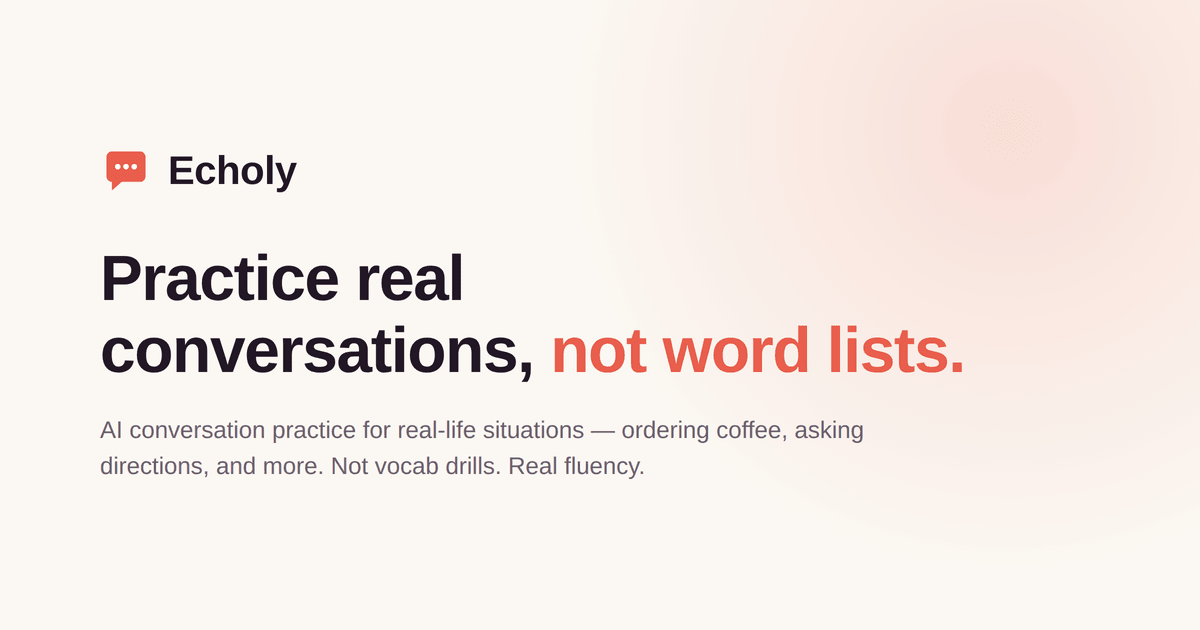
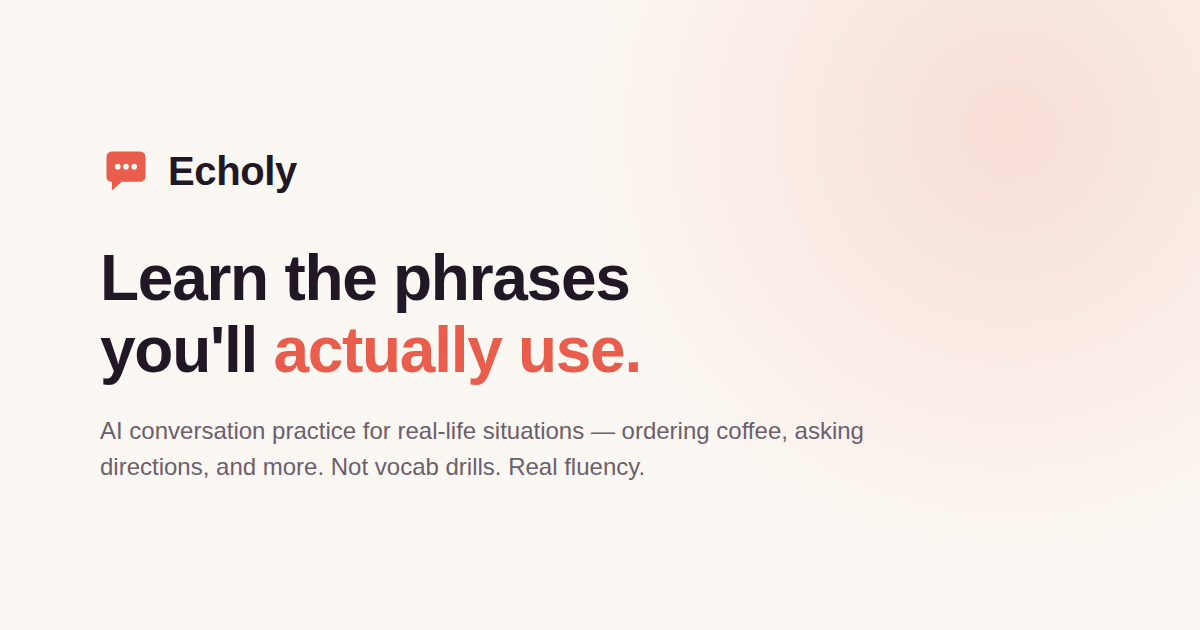
Simplify intro-lesson replies, update slogan

diff --git a/server/server.js b/server/server.js
@@ -929,7 +929,16 @@ const LANGUAGES = [
 // /converse call) turns this from an open-ended chat into something with a
 // goal: the model is asked to grade the learner's progress against them each
 // turn, not just reply in character.
-function buildSystemPrompt(language, scenario, objectives) {
+//
+// `keyPhrases` (also from /lesson-intro, Intro-tier lessons only) is the
+// short list of exact phrases the learner was shown on the lesson's intro
+// screen before this chat started. For Intro lessons it becomes a hard
+// vocabulary boundary for "reply" — see introGuidance below. Without it,
+// the model was free to improvise grammar the learner hasn't seen yet (e.g.
+// a reflexive infinitive construction in what's supposed to be someone's
+// very first exchange), which is exactly the "too intense for an intro
+// lesson" problem this guards against.
+function buildSystemPrompt(language, scenario, objectives, keyPhrases) {
     const hasObjectives = Array.isArray(objectives) && objectives.length > 0;
     const objectivesSection = hasObjectives
         ? `\n\nThis conversation also has a short list of lesson objectives the learner is trying to accomplish:\n${objectives.map((o, i) => `${i}. ${o}`).join("\n")}\nAfter the learner's latest message, and considering the whole conversation so far (not just this one message), decide which of these objectives (by their 0-based index above) have now been reasonably satisfied — be a little generous about it, not a strict grader; near enough counts. Once an objective is satisfied, keep including its index in every later turn too, even if the conversation has moved on. Put the full, cumulative list of satisfied indices in "completedObjectives" (empty array if none yet).`
@@ -941,8 +950,12 @@ function buildSystemPrompt(language, scenario, objectives) {
     // usual "correct them after the fact" coaching, the tutor hands over the
     // exact phrase to try BEFORE expecting a response, every single turn.
     const isIntro = scenario.tier === "Intro";
+    const hasKeyPhrases = isIntro && Array.isArray(keyPhrases) && keyPhrases.length > 0;
+    const keyPhrasesList = hasKeyPhrases
+        ? keyPhrases.map(p => `- ${p.phrase} (${p.translation})`).join("\n")
+        : "";
     const introGuidance = isIntro
-        ? `\n\nThis is a BASICS lesson — assume the learner may not know any ${language} yet. This overrides the usual "tip" rules above: every turn in this lesson, including the very first ("__START__") turn, use "tip" to explicitly hand them the next phrase to try — the exact ${language} phrase plus its English meaning, e.g. "Try saying: ¡Hola! — it means Hello." Never leave "tip" empty in this lesson, not even on a good attempt or the first turn — there should always be a next phrase to try. Keep "reply" itself very short and simple, and be warm and encouraging about any attempt, even an imperfect one.`
+        ? `\n\nThis is a BASICS lesson — assume the learner may not know any ${language} yet. This overrides the usual "reply" and "tip" rules above.${hasKeyPhrases ? `\n\nThe learner has just been shown this exact, complete list of ${language} phrases for this lesson, and nothing else:\n${keyPhrasesList}\n\nHard rules for "reply" in this lesson:\n- Use ONLY the phrases above (plus a name the learner gives you) — never introduce a new word, verb form, or sentence structure that isn't on that list.\n- "reply" must be just ONE short phrase from that list, standing alone — a greeting or exclamation, not a full sentence explaining what to say or how to say it (no "you can say...", no connecting clauses). Someone meeting this word for the very first time needs to see it used plainly, not embedded in a bigger sentence.` : `\n\nKeep "reply" itself to one very short, simple phrase — no subordinate clauses or explaining what to say, just a plain in-character reaction.`}\n- Every turn in this lesson, including the very first ("__START__") turn, use "tip" to explicitly hand them the next phrase to try — the exact ${language} phrase plus its English meaning, e.g. "Try saying: ¡Hola! — it means Hello." Never leave "tip" empty in this lesson, not even on a good attempt or the first turn — there should always be a next phrase to try. That's the only field where any teaching or explaining happens — never inside "reply".\n- Be warm and encouraging about any attempt, even an imperfect one — the vocabulary being minimal doesn't mean the tone should be flat.`
         : "";
 
     return `You are roleplaying as ${scenario.character}, to help someone practice having a real, natural conversation in ${language}. Scenario: ${scenario.blurb}
@@ -1246,7 +1259,7 @@ app.get("/scenarios", (req, res) => {
 // empty history.
 app.post("/converse", conversationLimiter, async (req, res) => {
     try {
-        const { scenarioId, language, history, message, objectives } = req.body;
+        const { scenarioId, language, history, message, objectives, keyPhrases } = req.body;
 
         const scenario = SCENARIOS[scenarioId];
         if (!scenario) {
@@ -1280,10 +1293,19 @@ app.post("/converse", conversationLimiter, async (req, res) => {
             ? objectives.filter(o => typeof o === "string").slice(0, 10)
             : [];
 
+        // Echoed back the same way as objectives (see above) — sanitized
+        // since it's client-supplied. Capped to a sane length; the app only
+        // ever sends the 5-8 phrases from that lesson's /lesson-intro call.
+        const safeKeyPhrases = Array.isArray(keyPhrases)
+            ? keyPhrases
+                .filter(p => p && typeof p.phrase === "string" && typeof p.translation === "string")
+                .slice(0, 10)
+            : [];
+
         const response = await getClient().responses.create({
             model: MODEL,
             input: [
-                { role: "system", content: buildSystemPrompt(language, scenario, safeObjectives) },
+                { role: "system", content: buildSystemPrompt(language, scenario, safeObjectives, safeKeyPhrases) },
                 ...historyInput,
                 { role: "user", content: message }
             ],

diff --git a/index.html b/index.html
@@ -693,7 +693,7 @@
         </svg>
         Echoly
       </span>
-      <p class="sidebar-tagline">Practice real conversations, not word lists.</p>
+      <p class="sidebar-tagline">Learn the phrases you'll actually use.</p>
 
       <div class="account-card" id="accountCard" style="display:none"></div>
 
@@ -2350,7 +2350,8 @@
           language: selectedLanguage,
           history,
           message: text,
-          objectives: currentObjectives
+          objectives: currentObjectives,
+          keyPhrases: currentKeyPhrases
         })
       });
       const data = await res.json();

diff --git a/README.md b/README.md
@@ -9,7 +9,7 @@ An AI conversation-practice app: pick a language and a real-life scenario (order
 - **Streaks** — a daily-activity streak and a "today" progress ring, shown in the sidebar, to encourage coming back.
 - **Spaced-repetition vocab review** — phrases learned in lessons get added to a review deck and resurface for quick flashcard review on a spaced schedule (1, 2, 4, 7, 14, 30 days), so they stick.
 - **Audio: hear + speak** — key phrases and AI replies can be read aloud (browser text-to-speech), and you can practice speaking your reply out loud (browser speech-to-text) instead of typing. Both quietly hide themselves in browsers that don't support them.
-- **Accounts & cross-device sync** (optional, off by default — see [Turning on accounts](#turning-on-accounts-firebase) below) — sign in with email/password or Google to save progress, streaks, and the review deck to the cloud and pick up where you left off on another device. Works entirely without accounts too: progress is saved locally either way.
+- **Accounts & cross-device sync** — a free account (email/password or Google) is required to use Echoly, so progress, streaks, and the review deck sync to the cloud and pick up where you left off on any device. Until `FIREBASE_CONFIG` is filled in with real values (see [Turning on accounts](#turning-on-accounts-firebase) below), this whole gate is skipped and Echoly runs open, account-free, exactly like before — useful for local dev/testing.
 - **Rate limiting** on the OpenAI-backed endpoints (`/converse`, `/lookup`, `/lesson-intro`, `/lesson-practice`) so a script can't run up an unbounded OpenAI bill.
 - **Privacy Policy** (`privacy.html`) and **Terms of Service** (`tos.html`), linked from the home screen footer.
 - **Google Analytics (GA4)** — wired in but off by default (see [Turning on analytics](#turning-on-analytics-ga4) below). With no real measurement ID set, no GA script is ever requested and nothing is tracked.
@@ -31,11 +31,11 @@ An AI conversation-practice app: pick a language and a real-life scenario (order
    ```
 4. Open `http://localhost:3000` in your browser (don't open `index.html` directly — it needs to be served by the app so its API calls work).
 
-Accounts and analytics both work out of the box with no setup — they're just inactive until you turn them on (below).
+Analytics works out of the box with no setup — it's just inactive until you turn it on (below). Accounts, once `FIREBASE_CONFIG` is filled in, are required to use the app — see below.
 
 ## Turning on accounts (Firebase)
 
-Accounts are entirely client-side (no server changes, no `firebase-admin`) and quietly disabled until you fill in real config. To turn them on:
+Accounts are entirely client-side (no server changes, no `firebase-admin`). Once `FIREBASE_CONFIG` has real values, a visitor must sign in or sign up before reaching any lesson — that's by design, so progress always has somewhere to sync to. Until then, this whole gate is skipped and Echoly runs open. To turn accounts on:
 
 1. Go to the [Firebase console](https://console.firebase.google.com) and create a new project (this needs your own Google login — there's no way to script this part).
 2. In your project, go to **Build → Authentication → Sign-in method** and enable the **Email/Password** and **Google** providers.
@@ -43,9 +43,9 @@ Accounts are entirely client-side (no server changes, no `firebase-admin`) and q
 4. In Firestore's **Rules** tab, paste in the contents of `firestore.rules` (included alongside this README) and publish. This locks each signed-in user to reading/writing only their own data — no one, including other signed-in users, can read or write anyone else's progress.
 5. Go to **Project settings → General**, scroll to "Your apps", and add a Web app (the `</>` icon) if you haven't already. Copy the `firebaseConfig` object it gives you.
 6. In `index.html`, find the `FIREBASE_CONFIG` object near the top of the main script and replace the six `YOUR_FIREBASE_...` placeholder values with the real values from step 5.
-7. Redeploy. The account card will appear in the sidebar automatically — no other code changes needed.
+7. Redeploy. The sign-in gate will appear automatically for every visitor — no other code changes needed.
 
-If Firebase is ever unreachable for a visitor (blocked CDN, offline, etc.), the rest of the app keeps working normally — accounts just aren't offered for that visit.
+If Firebase is ever unreachable for a visitor (blocked CDN, offline, etc.), they'll see an honest "couldn't connect" message with a retry button after a few seconds, rather than being let into the app or stuck on an endless loading screen.
 
 ## Turning on analytics (GA4)
 
